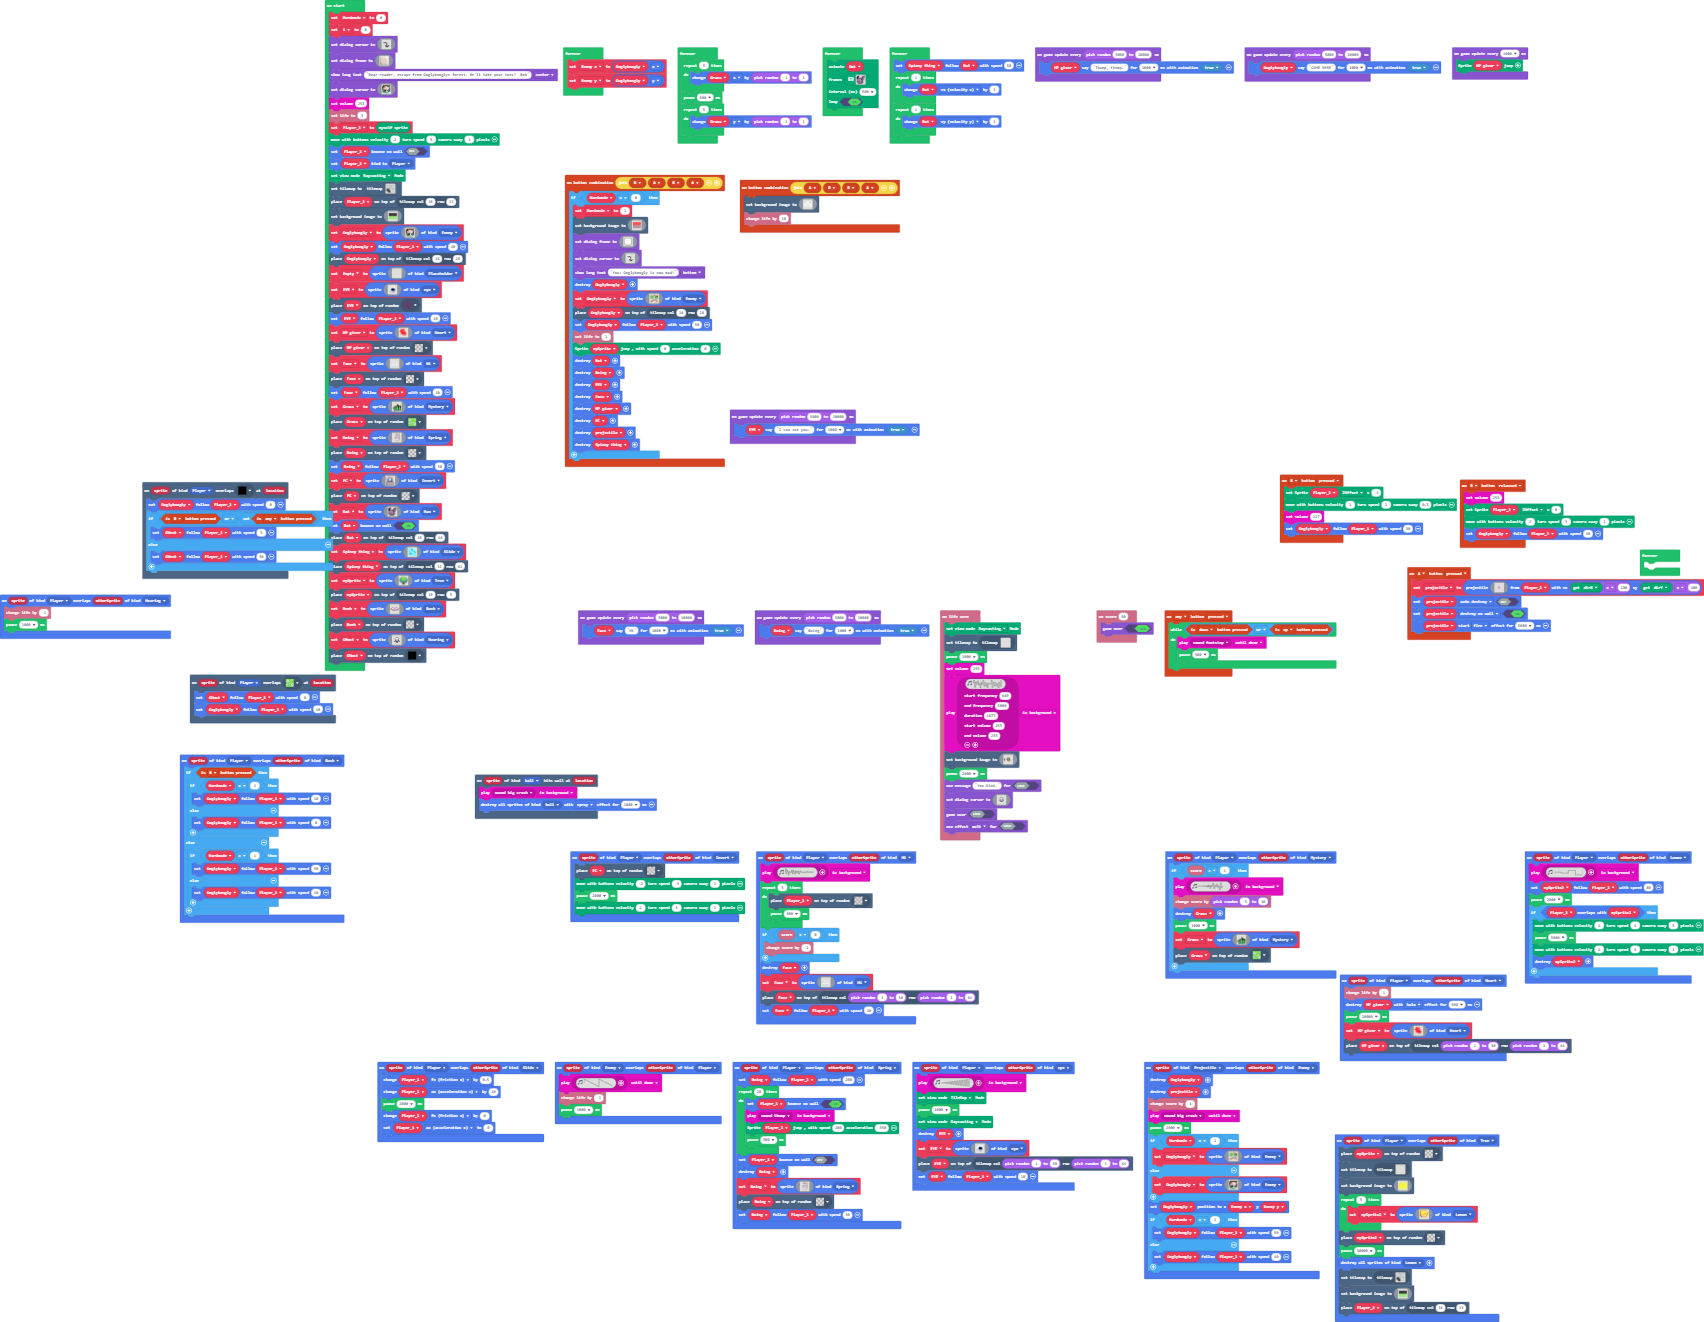
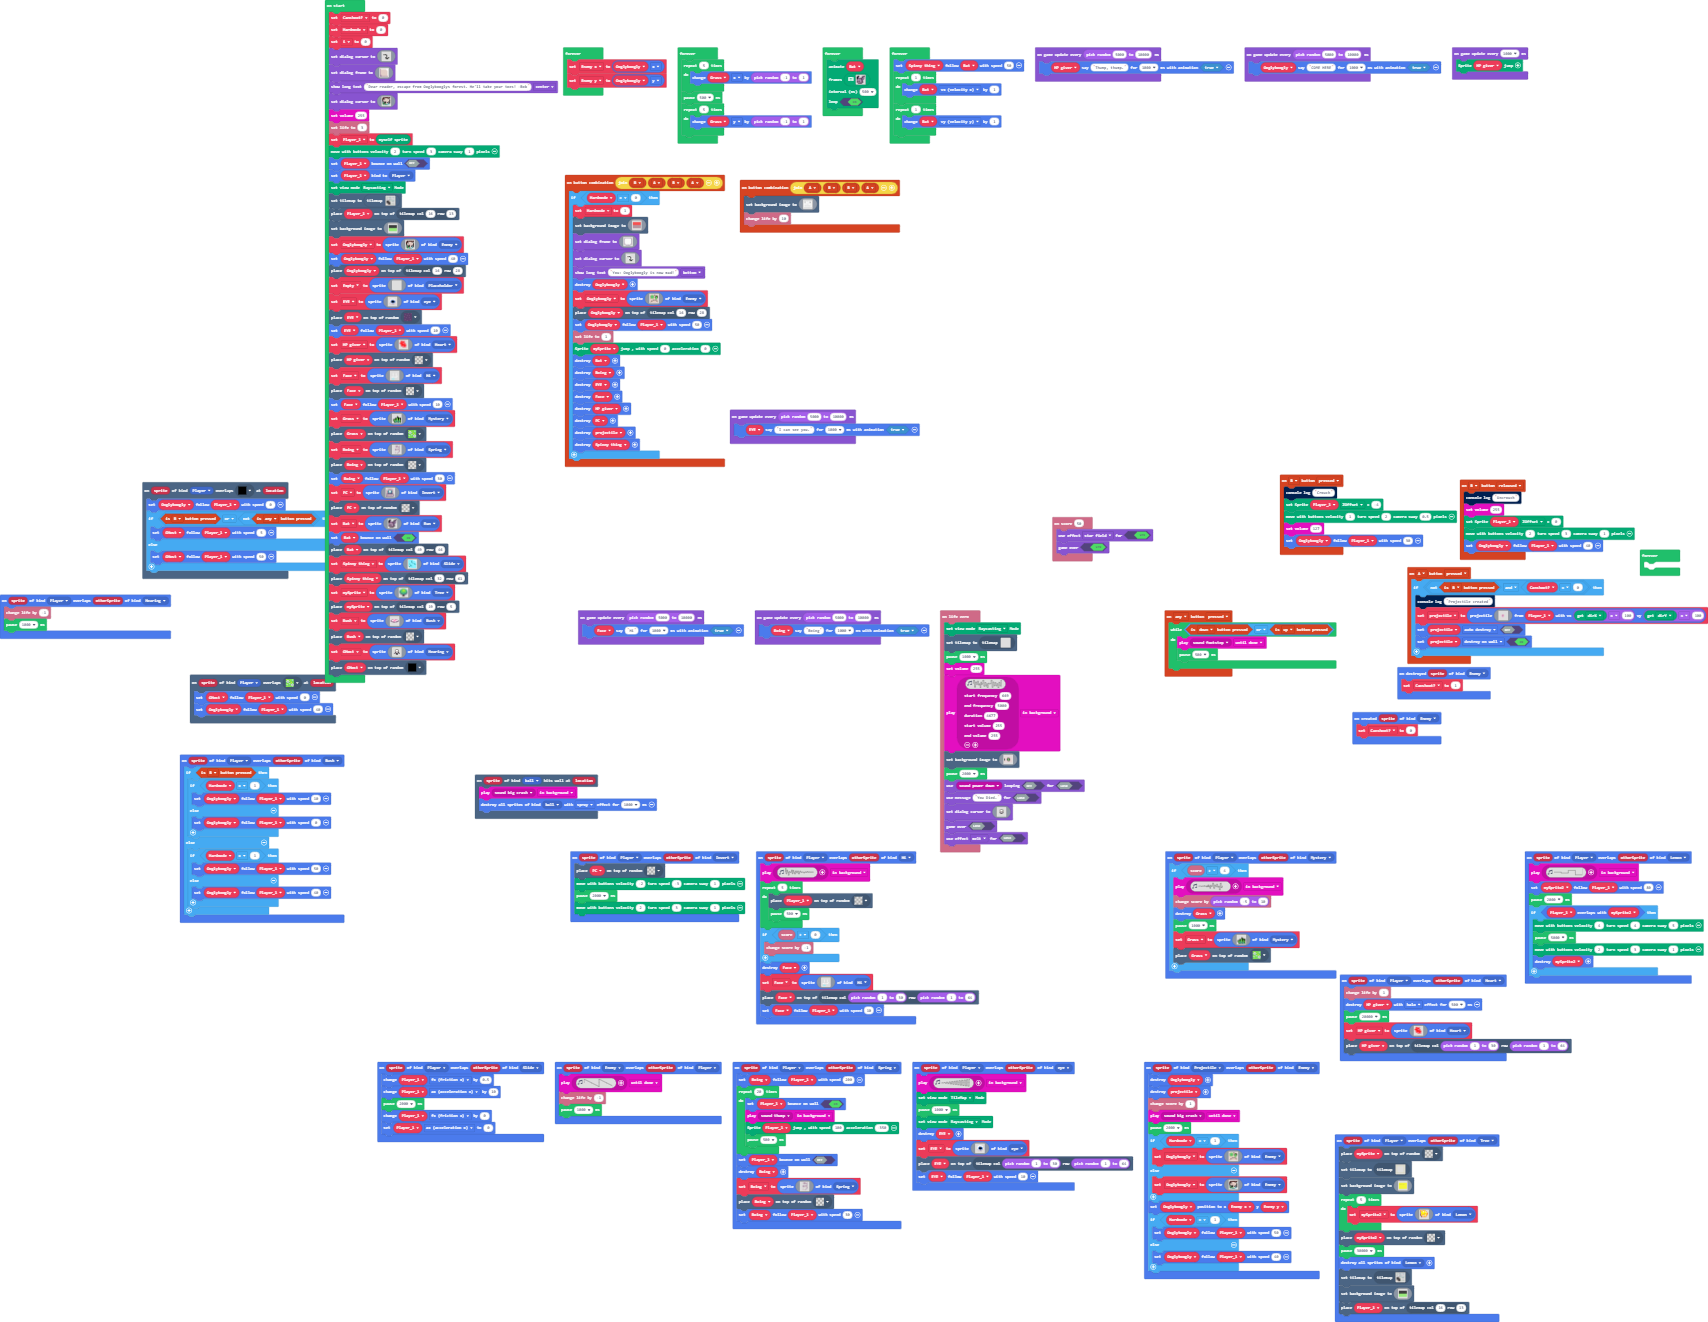
Update main.blocks, main.ts

diff --git a/main.ts b/main.ts
@@ -16,6 +16,9 @@ namespace SpriteKind {
     export const Hearing = SpriteKind.create()
     export const Minimap = SpriteKind.create()
 }
+sprites.onCreated(SpriteKind.Enemy, function (sprite) {
+    Canshoot = 0
+})
 sprites.onOverlap(SpriteKind.Player, SpriteKind.Spring, function (sprite, otherSprite) {
     Boing.follow(Player_1, 200)
     for (let index = 0; index < 20; index++) {
@@ -156,6 +159,7 @@ controller.combos.attachCombo("" + controller.combos.idToString(controller.combo
     info.changeLifeBy(10)
 })
 controller.B.onEvent(ControllerButtonEvent.Pressed, function () {
+    console.log("Crouch")
     Render.setSpriteAttribute(Player_1, RCSpriteAttribute.ZOffset, -4)
     Render.moveWithController(1, 2, 0.5)
     music.setVolume(127)
@@ -364,27 +368,29 @@ controller.anyButton.onEvent(ControllerButtonEvent.Pressed, function () {
     }
 })
 controller.A.onEvent(ControllerButtonEvent.Pressed, function () {
-    projectile = sprites.createProjectileFromSprite(img`
-        . . . . . . . . . . . . . . . . 
-        . . . . . . . . . . . . . . . . 
-        . . . . . . . . . . . . . . . . 
-        . . . . . . . . . . . . . . . . 
-        . . . . . . . . . . . . . . . . 
-        . . . . . . . . . . . . . . . . 
-        . . . . . . 3 3 3 . . . . . . . 
-        . . . . . 3 b b b 3 . . . . . . 
-        . . . . . 3 b 1 b 3 . . . . . . 
-        . . . . . 3 b b 1 3 . . . . . . 
-        . . . . . . 3 3 3 . . . . . . . 
-        . . . . . . . . . . . . . . . . 
-        . . . . . . . . . . . . . . . . 
-        . . . . . . . . . . . . . . . . 
-        . . . . . . . . . . . . . . . . 
-        . . . . . . . . . . . . . . . . 
-        `, Player_1, Render.getAttribute(Render.attribute.dirX) * 100, Render.getAttribute(Render.attribute.dirY) * 100)
-    projectile.setFlag(SpriteFlag.AutoDestroy, false)
-    projectile.setFlag(SpriteFlag.DestroyOnWall, true)
-    projectile.startEffect(effects.fire, 5000)
+    if (!(controller.B.isPressed()) && Canshoot == 0) {
+        console.log("Projectile created")
+        projectile = sprites.createProjectileFromSprite(img`
+            . . . . . . . . . . . . . . . . 
+            . . . . . . . . . . . . . . . . 
+            . . . . . . . . . . . . . . . . 
+            . . . . . . . . . . . . . . . . 
+            . . . . . . . . . . . . . . . . 
+            . . . . . . . . . . . . . . . . 
+            . . . . . . 3 3 3 . . . . . . . 
+            . . . . . 3 b b b 3 . . . . . . 
+            . . . . . 3 b 1 b 3 . . . . . . 
+            . . . . . 3 b b 1 3 . . . . . . 
+            . . . . . . 3 3 3 . . . . . . . 
+            . . . . . . . . . . . . . . . . 
+            . . . . . . . . . . . . . . . . 
+            . . . . . . . . . . . . . . . . 
+            . . . . . . . . . . . . . . . . 
+            . . . . . . . . . . . . . . . . 
+            `, Player_1, Render.getAttribute(Render.attribute.dirX) * 100, Render.getAttribute(Render.attribute.dirY) * 100)
+        projectile.setFlag(SpriteFlag.AutoDestroy, false)
+        projectile.setFlag(SpriteFlag.DestroyOnWall, true)
+    }
 })
 sprites.onOverlap(SpriteKind.Player, SpriteKind.Lemon, function (sprite, otherSprite) {
     music.play(music.createSoundEffect(WaveShape.Square, 312, 312, 0, 255, 1000, SoundExpressionEffect.Tremolo, InterpolationCurve.Linear), music.PlaybackMode.InBackground)
@@ -586,6 +592,7 @@ info.onLifeZero(function () {
         dddddddddddddddddddddddddddddddddddddddddddddddddddddddddddddddddddddddddddddddddddddddddddddddddddddddddddddddddddddddddddddddddddddddddddddddddddddddddddddddd
         `)
     pause(2000)
+    game.setGameOverPlayable(false, music.melodyPlayable(music.powerDown), false)
     game.setGameOverMessage(false, "You Died.")
     game.setDialogCursor(img`
         ........................
@@ -621,12 +628,14 @@ scene.onOverlapTile(SpriteKind.Player, sprites.castle.tileGrass2, function (spri
     Ooglyboogly.follow(Player_1, 40)
 })
 controller.B.onEvent(ControllerButtonEvent.Released, function () {
+    console.log("Uncrouch")
     music.setVolume(255)
     Render.setSpriteAttribute(Player_1, RCSpriteAttribute.ZOffset, 0)
     Render.moveWithController(2, 3, 1)
     Ooglyboogly.follow(Player_1, 40)
 })
 info.onScore(50, function () {
+    game.setGameOverEffect(true, effects.starField)
     game.gameOver(true)
 })
 sprites.onOverlap(SpriteKind.Player, SpriteKind.Hi, function (sprite, otherSprite) {
@@ -659,6 +668,9 @@ sprites.onOverlap(SpriteKind.Player, SpriteKind.Hi, function (sprite, otherSprit
         `, SpriteKind.Hi)
     tiles.placeOnTile(Face, tiles.getTileLocation(randint(1, 30), randint(1, 64)))
     Face.follow(Player_1, 10)
+})
+sprites.onDestroyed(SpriteKind.Enemy, function (sprite) {
+    Canshoot = 1
 })
 sprites.onOverlap(SpriteKind.Player, SpriteKind.Bush, function (sprite, otherSprite) {
     if (controller.B.isPressed()) {
@@ -966,6 +978,8 @@ let EYE: Sprite = null
 let Ooglyboogly: Sprite = null
 let Player_1: Sprite = null
 let Hardmode = 0
+let Canshoot = 0
+Canshoot = 0
 Hardmode = 0
 let i = 0
 game.setDialogCursor(img`
